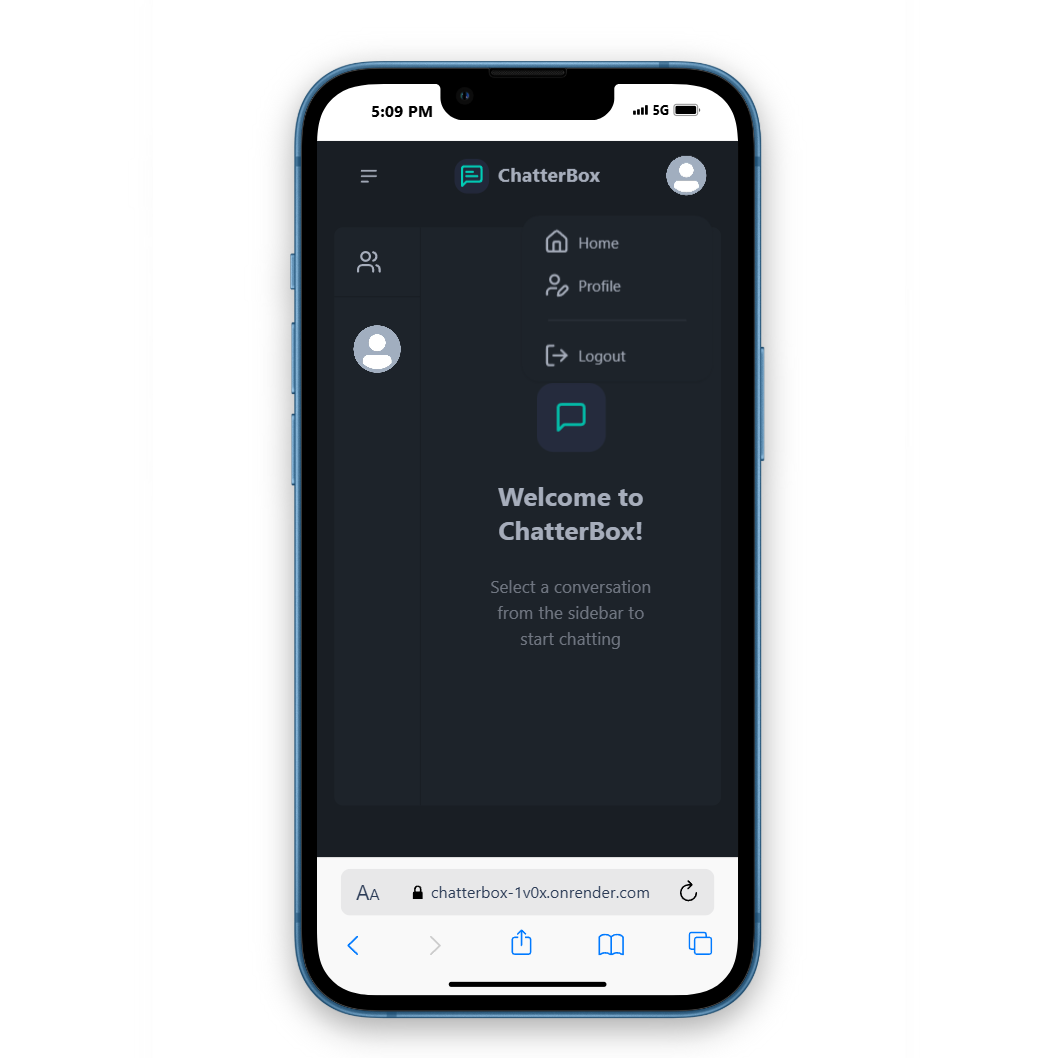
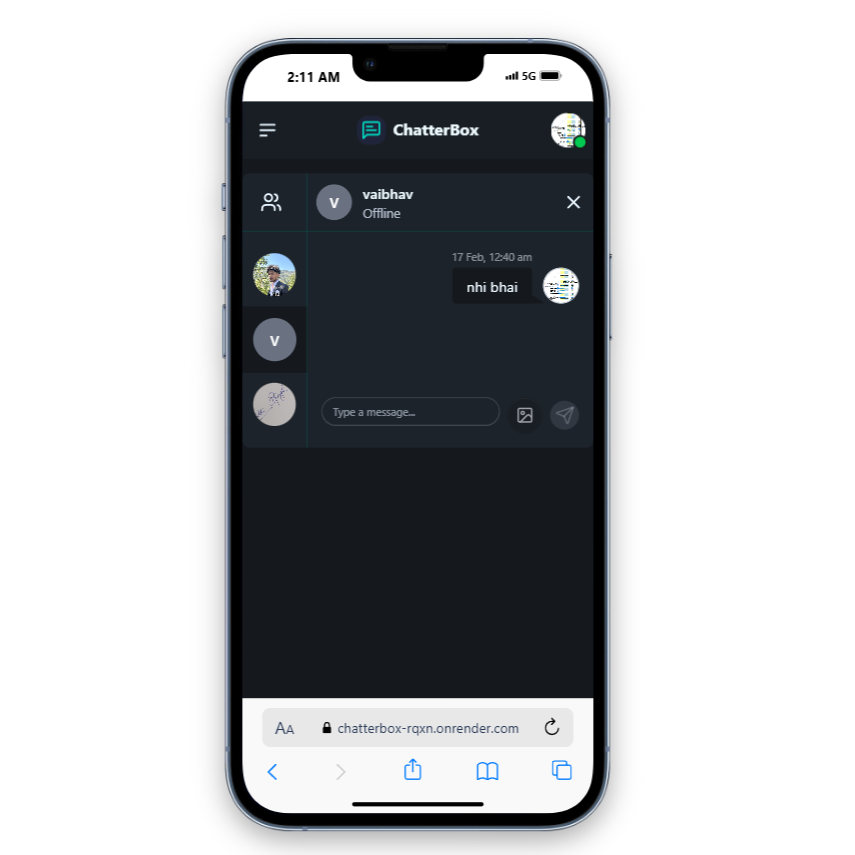
porfolio updated

diff --git a/index.html b/index.html
@@ -225,11 +225,11 @@
                     <!-- MUSIC SITE -->
                     <div class="col-12 col-md-6 col-xl-4">
                         <div class="content text-center border-0">
-                            <a href="https://chatterbox-1v0x.onrender.com/" target="_blank" class="img-site"><img
+                            <a href="https://chatterbox-rqxn.onrender.com/" target="_blank" class="img-site"><img
                                     src="images/web-dev-proj-ChatterBox.png" width="100%" class="rounded" alt="...">
                                 <button class="btn ">Live Preview <i class="bi bi-box-arrow-up-right"></i></button>
                             </a>
-                            <a href="https://chatterbox-1v0x.onrender.com/" target="_blank"
+                            <a href="https://chatterbox-rqxn.onrender.com/" target="_blank"
                                 class="text-decoration-none ">
                                 <h5 class="my-4 ">ChatterBox <i class="bi bi-box-arrow-up-right"></i></h5>
                             </a>
